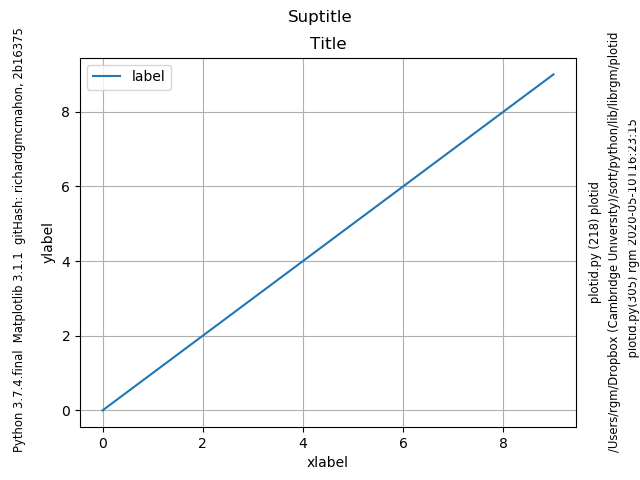
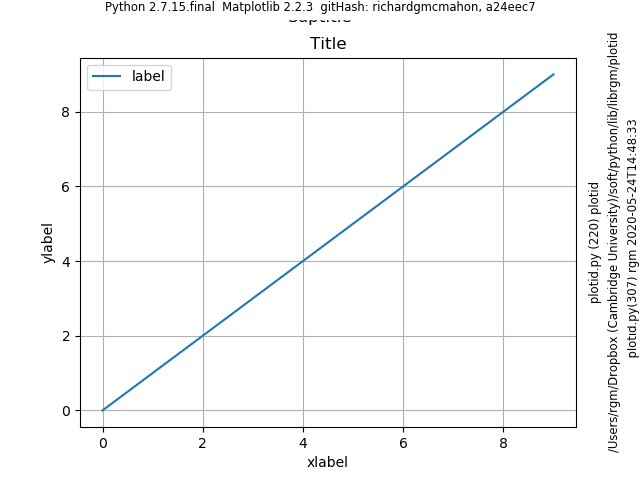
moved the gitgub provenance to the top; this will collide with suptitle which is less bad that overwrting the ylabel 	modified:   README.md 	modified:   plotid.py 	modified:   plotid_demo_fig1.png 	modified:   plotid_demo_fig2.png 	modified:   plotid_demo_fig3.png

diff --git a/plotid/plotid.py b/plotid/plotid.py
@@ -33,6 +33,8 @@ def plotid(timestamp=True, user=True, hostname=False,
     should the text location be in units of the current figure (gcf)
     or the current axis (gca)
 
+    gcf should like the best
+
     gcf().transFigure worked for Python 2 but breaks in Python 3
     gca().transAxes works for both Python 2 and 3
 
@@ -266,20 +268,20 @@ def plotid(timestamp=True, user=True, hostname=False,
                  '  gitHash: ' + provenance
     if githash:
         text = provenance
-        xtext = 0.02
-        ytext = 0.5
+        xtext = 0.5
+        ytext = 0.97
         if debug:
             print('pyplot.text:', xtext, ytext, text)
         plt.figtext(xtext, ytext,
                     text,
                     transform=transform,
-                    rotation=90,
+                    rotation=0,
                     size=fontsize, color=color,
                     backgroundcolor='w',
                     fontsize=fontsize,
                     weight='ultralight',
-                    horizontalalignment='left',
-                    verticalalignment='center')
+                    horizontalalignment='center',
+                    verticalalignment='bottom')
 
     return
 
@@ -374,6 +376,23 @@ if __name__ == '__main__':
     plotid()
 
     plotfile = 'plotid_demo_fig3.png'
+    print('Saving', plotfile)
+    plt.savefig(plotfile)
+    plt.show()
+
+
+    fig, ax = plt.subplots()
+
+    ax.plot(range(10), range(10), label='label')
+    ax.grid()
+    ax.set_xlabel('xlabel')
+    ax.set_ylabel('ylabel')
+    ax.set_title('Title')
+    plt.suptitle('Suptitle')
+    ax.legend()
+    plotid(debug=True, progname=True)
+
+    plotfile = 'plotid_demo_fig4.png'
     print('Saving', plotfile)
     plt.savefig(plotfile)
     plt.show()

diff --git a/plotid/README.md b/plotid/README.md
@@ -1,5 +1,8 @@
+setup.py is based on https://docs.python.org/3/distutils/introduction.html#a-simple-example
 
 Install with
+
+copy the file in the directory; Then type
 
 python setup.py install
 
@@ -7,7 +10,3 @@ run the demo with
 python plotid.py
 
 
-Following astropy
-cookiecutter gh:astropy/package-template
-This gave an error so I followed the Python 3.7 docs at:
-https://docs.python.org/3/distutils/introduction.html#a-simple-example
